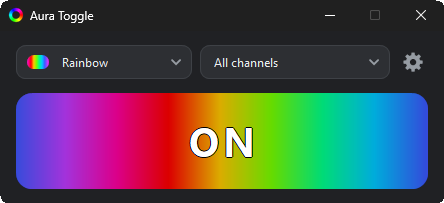
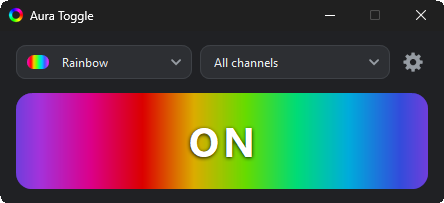
Refresh the README preview with the label's soft shadow
Lift the label as darkening plus white, so the shadow moves with the effect.

diff --git a/tools/make-preview.py b/tools/make-preview.py
@@ -38,7 +38,7 @@ FRAMES = 240
 FRAME_DURATION_MS = 17  # 240 x 17 ms = one sweep every 4 s at just under 60 fps
 MAX_KB = 1500
 SATURATION_THRESHOLD = 90  # 0-255; the button's own animated effect is far above this
-LABEL_DEVIATION = 28  # how far off the clean gradient a pixel must be to count as label, 0-255
+LABEL_NOISE = 6  # off the clean gradient by less than this, a pixel is left untouched, 0-255
 EDGE_TRIM = 2  # columns at each end of the button that blend into the window; measured as 1
 
 
@@ -86,15 +86,29 @@ def clean_gradient(region_rgb: np.ndarray, region_mask: np.ndarray) -> np.ndarra
     return np.repeat(np.round(line).astype(np.uint8)[None, :, :], h, axis=0)
 
 
-def label_alpha(region_rgb: np.ndarray, clean: np.ndarray) -> np.ndarray:
-    """How much of each pixel belongs to the label rather than to the effect behind it.
+def label_layers(region_rgb: np.ndarray, clean: np.ndarray) -> tuple[np.ndarray, np.ndarray]:
+    """The label as two numbers per pixel: how much of the effect still shows through, and how
+    much white sits on top of it - so every frame can draw it over a different colour.
 
-    The text and its shadow sit far off the gradient they cover; their antialiased edges sit
-    partway. Taking that distance as an alpha keeps the edges soft instead of cutting the glyphs
-    out along a hard threshold, which left a rim of the old colour around every letter.
+    The label is white text over a soft black shadow, so each pixel is the effect behind it
+    darkened, then mixed with white: pixel = effect * keep + white. Three colour channels against
+    two unknowns, solved per pixel by a straight line fit. Lifting the captured pixels themselves
+    instead carried the colour that sat behind the shadow along with it, which showed as a
+    coloured halo round the letters once the effect had moved on.
     """
-    deviation = np.abs(region_rgb.astype(np.int16) - clean.astype(np.int16)).max(axis=2)
-    return np.clip(deviation / LABEL_DEVIATION, 0.0, 1.0)[:, :, None]
+    x = clean.astype(np.float64)
+    y = region_rgb.astype(np.float64)
+    x_mean = x.mean(axis=2, keepdims=True)
+    y_mean = y.mean(axis=2, keepdims=True)
+    spread = ((x - x_mean) ** 2).sum(axis=2, keepdims=True)
+    keep = ((x - x_mean) * (y - y_mean)).sum(axis=2, keepdims=True) / np.maximum(spread, 1.0)
+    keep = np.clip(keep, 0.0, 1.0)
+    white = np.clip(y_mean - keep * x_mean, 0.0, 255.0)
+
+    # Pixels the label does not touch stay exactly the effect, rather than carrying the fit's noise.
+    deviation = np.abs(y - x).max(axis=2, keepdims=True)
+    untouched = deviation < LABEL_NOISE
+    return np.where(untouched, 1.0, keep), np.where(untouched, 0.0, white)
 
 
 def build_frames(rgb: np.ndarray, alpha: np.ndarray, mask: np.ndarray) -> list[Image.Image]:
@@ -103,13 +117,12 @@ def build_frames(rgb: np.ndarray, alpha: np.ndarray, mask: np.ndarray) -> list[I
     region_mask = mask[y:y + h, x:x + w] > 0
 
     clean = clean_gradient(region_rgb, region_mask)
-    label_weight = label_alpha(region_rgb, clean)
-    label = region_rgb.astype(np.float64) * label_weight
+    keep, white = label_layers(region_rgb, clean)
 
     frames = []
     for i in range(FRAMES):
         wave = np.roll(clean, round(i * w / FRAMES), axis=1).astype(np.float64)
-        composed = np.round(wave * (1.0 - label_weight) + label).astype(np.uint8)
+        composed = np.clip(np.round(wave * keep + white), 0, 255).astype(np.uint8)
 
         frame = np.dstack((rgb, alpha))
         region = frame[y:y + h, x:x + w, :3]
